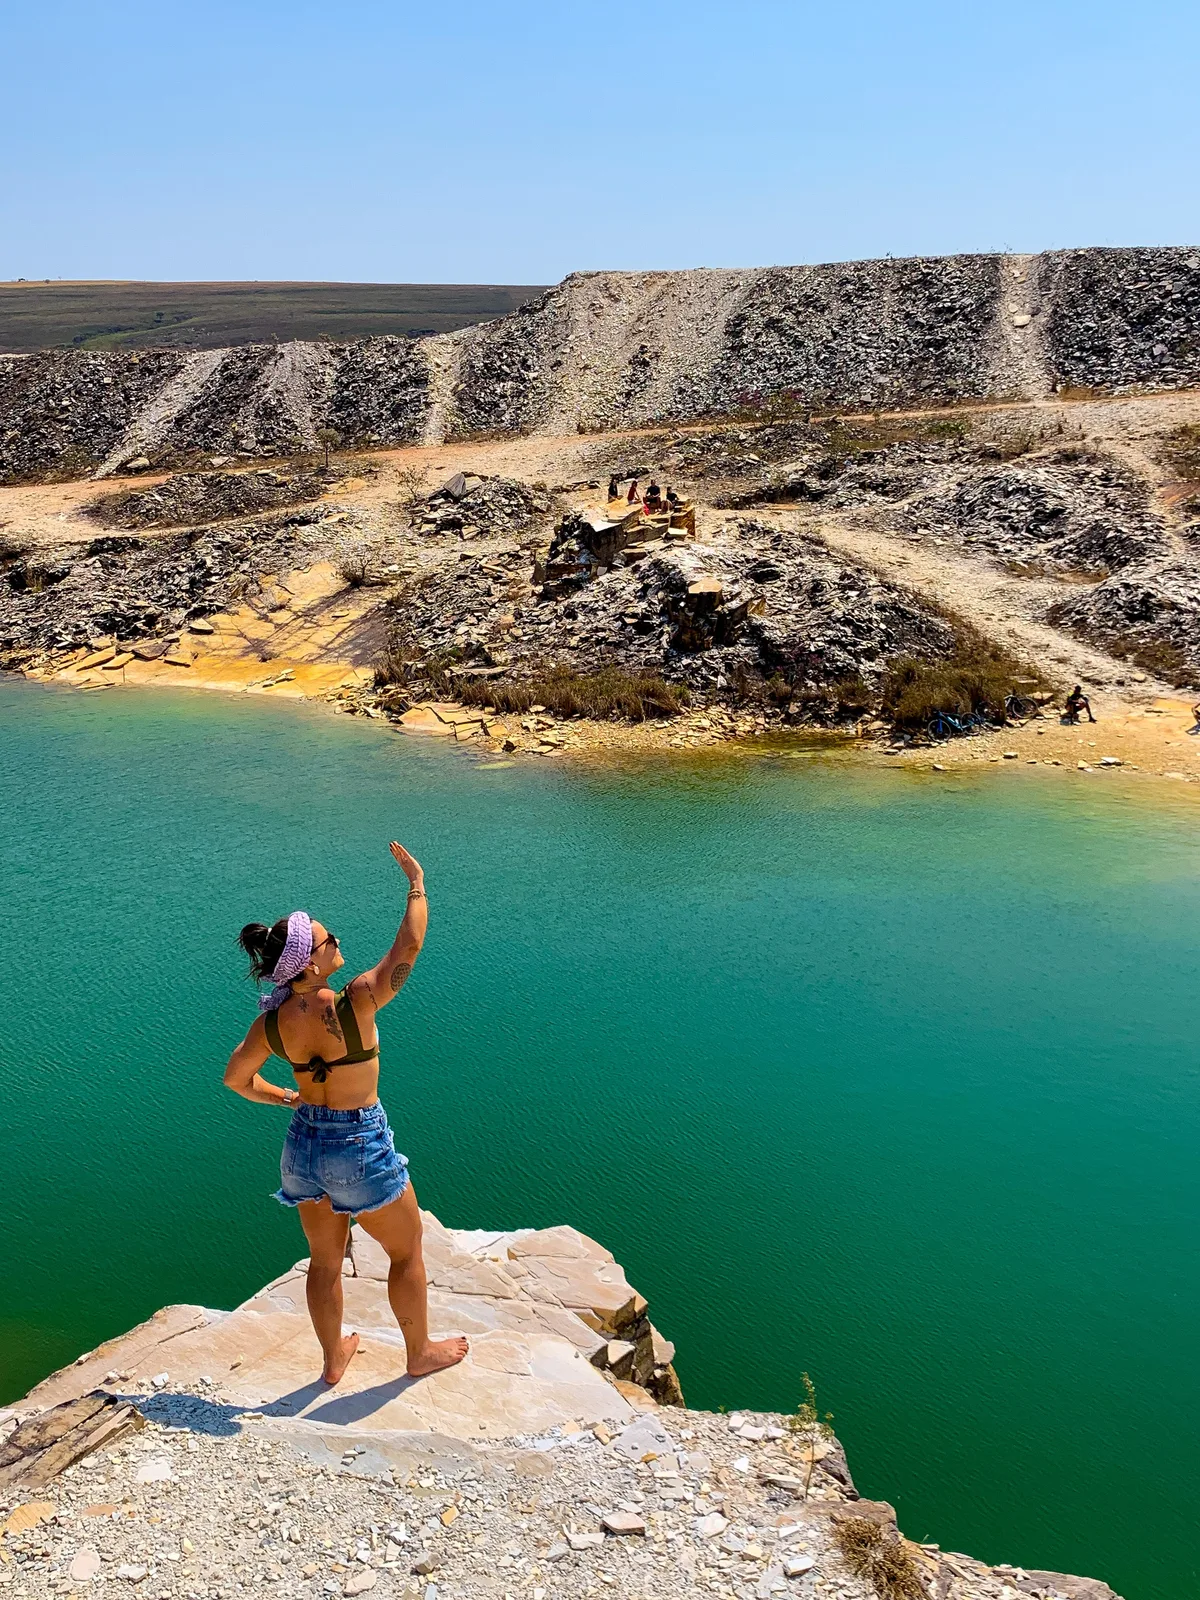
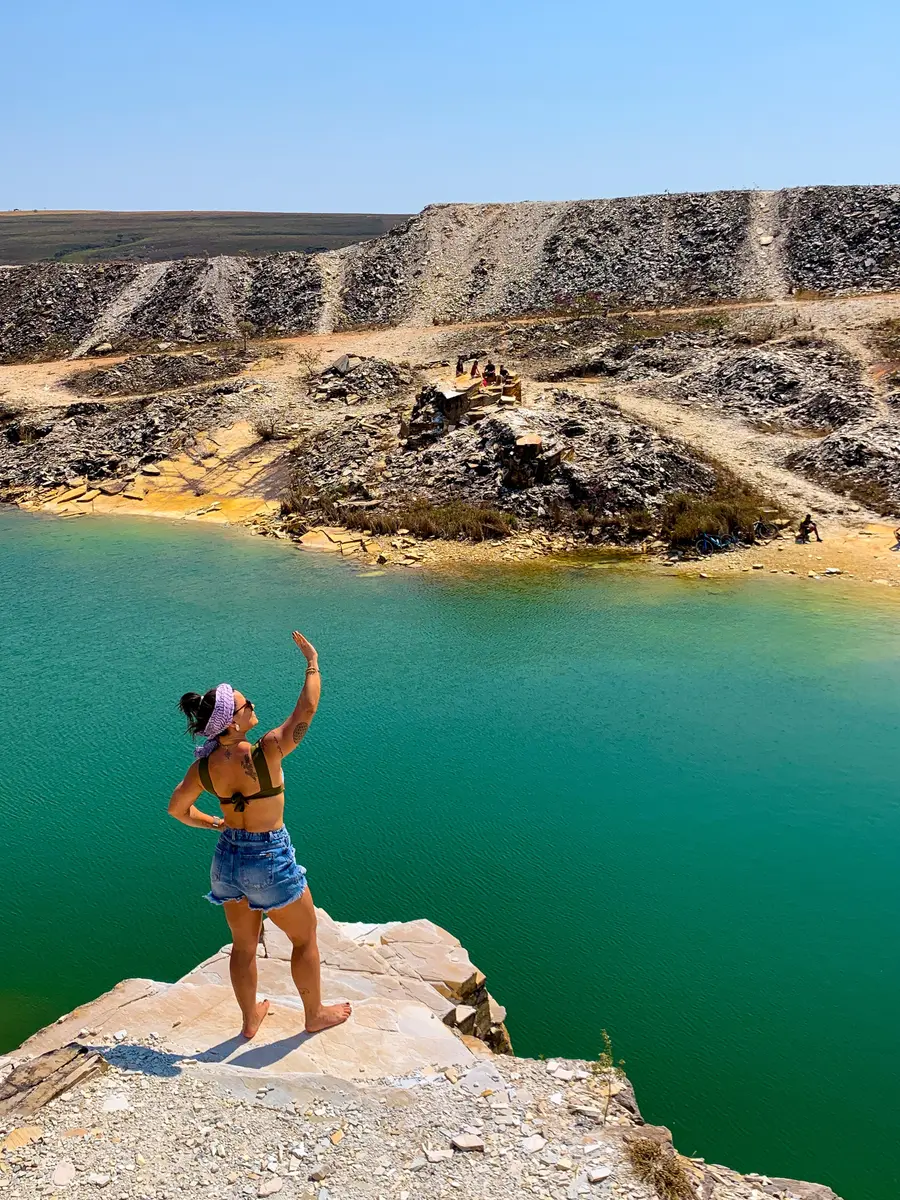
Vendas: reduz peso de imagens e carrega fontes do Google sem bloquear render
Redimensiona captolio.webp (512KB->217KB) e passaporte.webp (176KB->75KB)
para 900x1200, mesma estrategia aplicada ao hero. Tambem carrega o CSS
do Google Fonts via preload+onload para nao bloquear a renderizacao
inicial, mantendo fallback via <noscript>.

diff --git a/pages/vendas.html b/pages/vendas.html
@@ -7,7 +7,9 @@
   <title>Imersão Hora de Decolar — Uma manhã que vai mudar o resto da sua vida</title>
   <link rel="preconnect" href="https://fonts.googleapis.com" />
   <link rel="preconnect" href="https://fonts.gstatic.com" crossorigin />
-  <link href="https://fonts.googleapis.com/css2?family=Caveat:wght@600;700&family=Gabriela&family=Roboto:wght@300;400;500;600;700&display=swap" rel="stylesheet" />
+  <link rel="preload" as="style" href="https://fonts.googleapis.com/css2?family=Caveat:wght@600;700&family=Gabriela&family=Roboto:wght@300;400;500;600;700&display=swap" />
+  <link href="https://fonts.googleapis.com/css2?family=Caveat:wght@600;700&family=Gabriela&family=Roboto:wght@300;400;500;600;700&display=swap" rel="stylesheet" media="print" onload="this.media='all'" />
+  <noscript><link href="https://fonts.googleapis.com/css2?family=Caveat:wght@600;700&family=Gabriela&family=Roboto:wght@300;400;500;600;700&display=swap" rel="stylesheet" /></noscript>
   <!-- Meta Pixel Code -->
 <script>
 !function(f,b,e,v,n,t,s)
@@ -1024,7 +1026,7 @@ src="https://www.facebook.com/tr?id=1527384455441746&ev=PageView&noscript=1"
       <p class="d8-bio">A Imersão é exatamente isso: <strong>a forma como eu penso, em ordem, passo a passo, para você replicar sozinha.</strong></p>
     </div>
     <div class="d8-foto">
-      <img src="../assets/fotos/passaporte.webp" alt="Bruna Araujo com passaporte" width="1200" height="1600" loading="lazy" />
+      <img src="../assets/fotos/passaporte.webp" alt="Bruna Araujo com passaporte" width="900" height="1200" loading="lazy" />
     </div>
   </section>
 
@@ -1102,7 +1104,7 @@ src="https://www.facebook.com/tr?id=1527384455441746&ev=PageView&noscript=1"
       <a href="https://pay.kiwify.com.br/abdjXts" target="_blank" rel="noopener noreferrer" class="btn" onclick="fbq('track','InitiateCheckout',{value:37,currency:'BRL'})">Quero garantir minha&nbsp;viagem <span class="arr">→</span></a>
     </div>
     <div class="d12-foto">
-      <img src="../assets/fotos/captolio.webp" alt="Bruna viajando" width="1200" height="1600" loading="lazy" />
+      <img src="../assets/fotos/captolio.webp" alt="Bruna viajando" width="900" height="1200" loading="lazy" />
     </div>
   </section>
 
